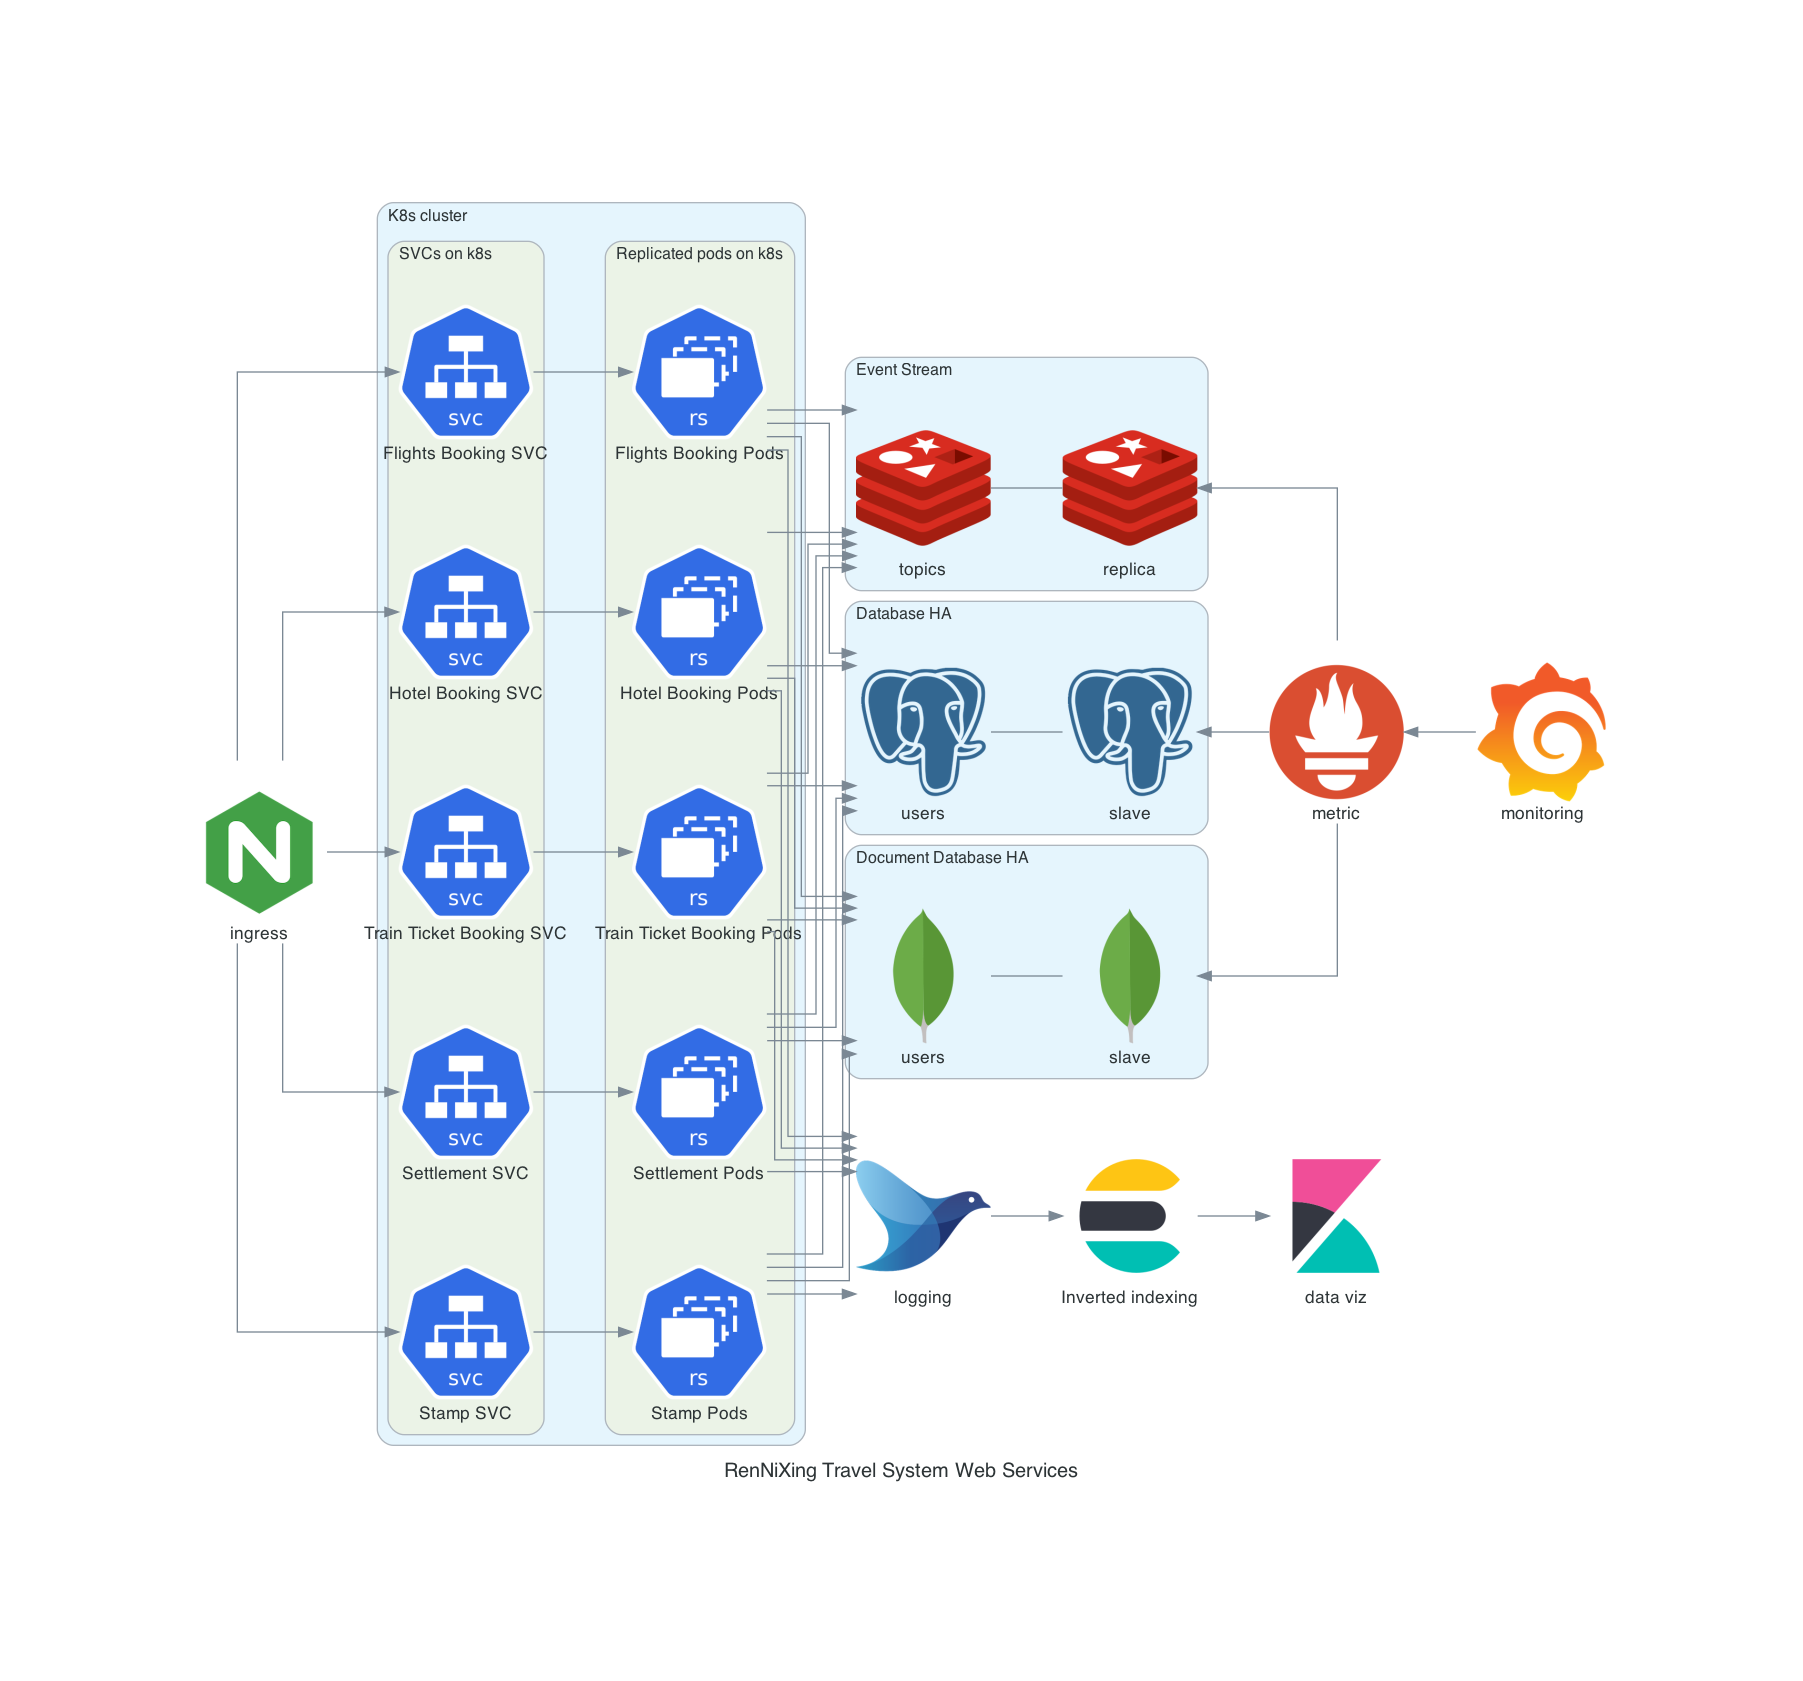
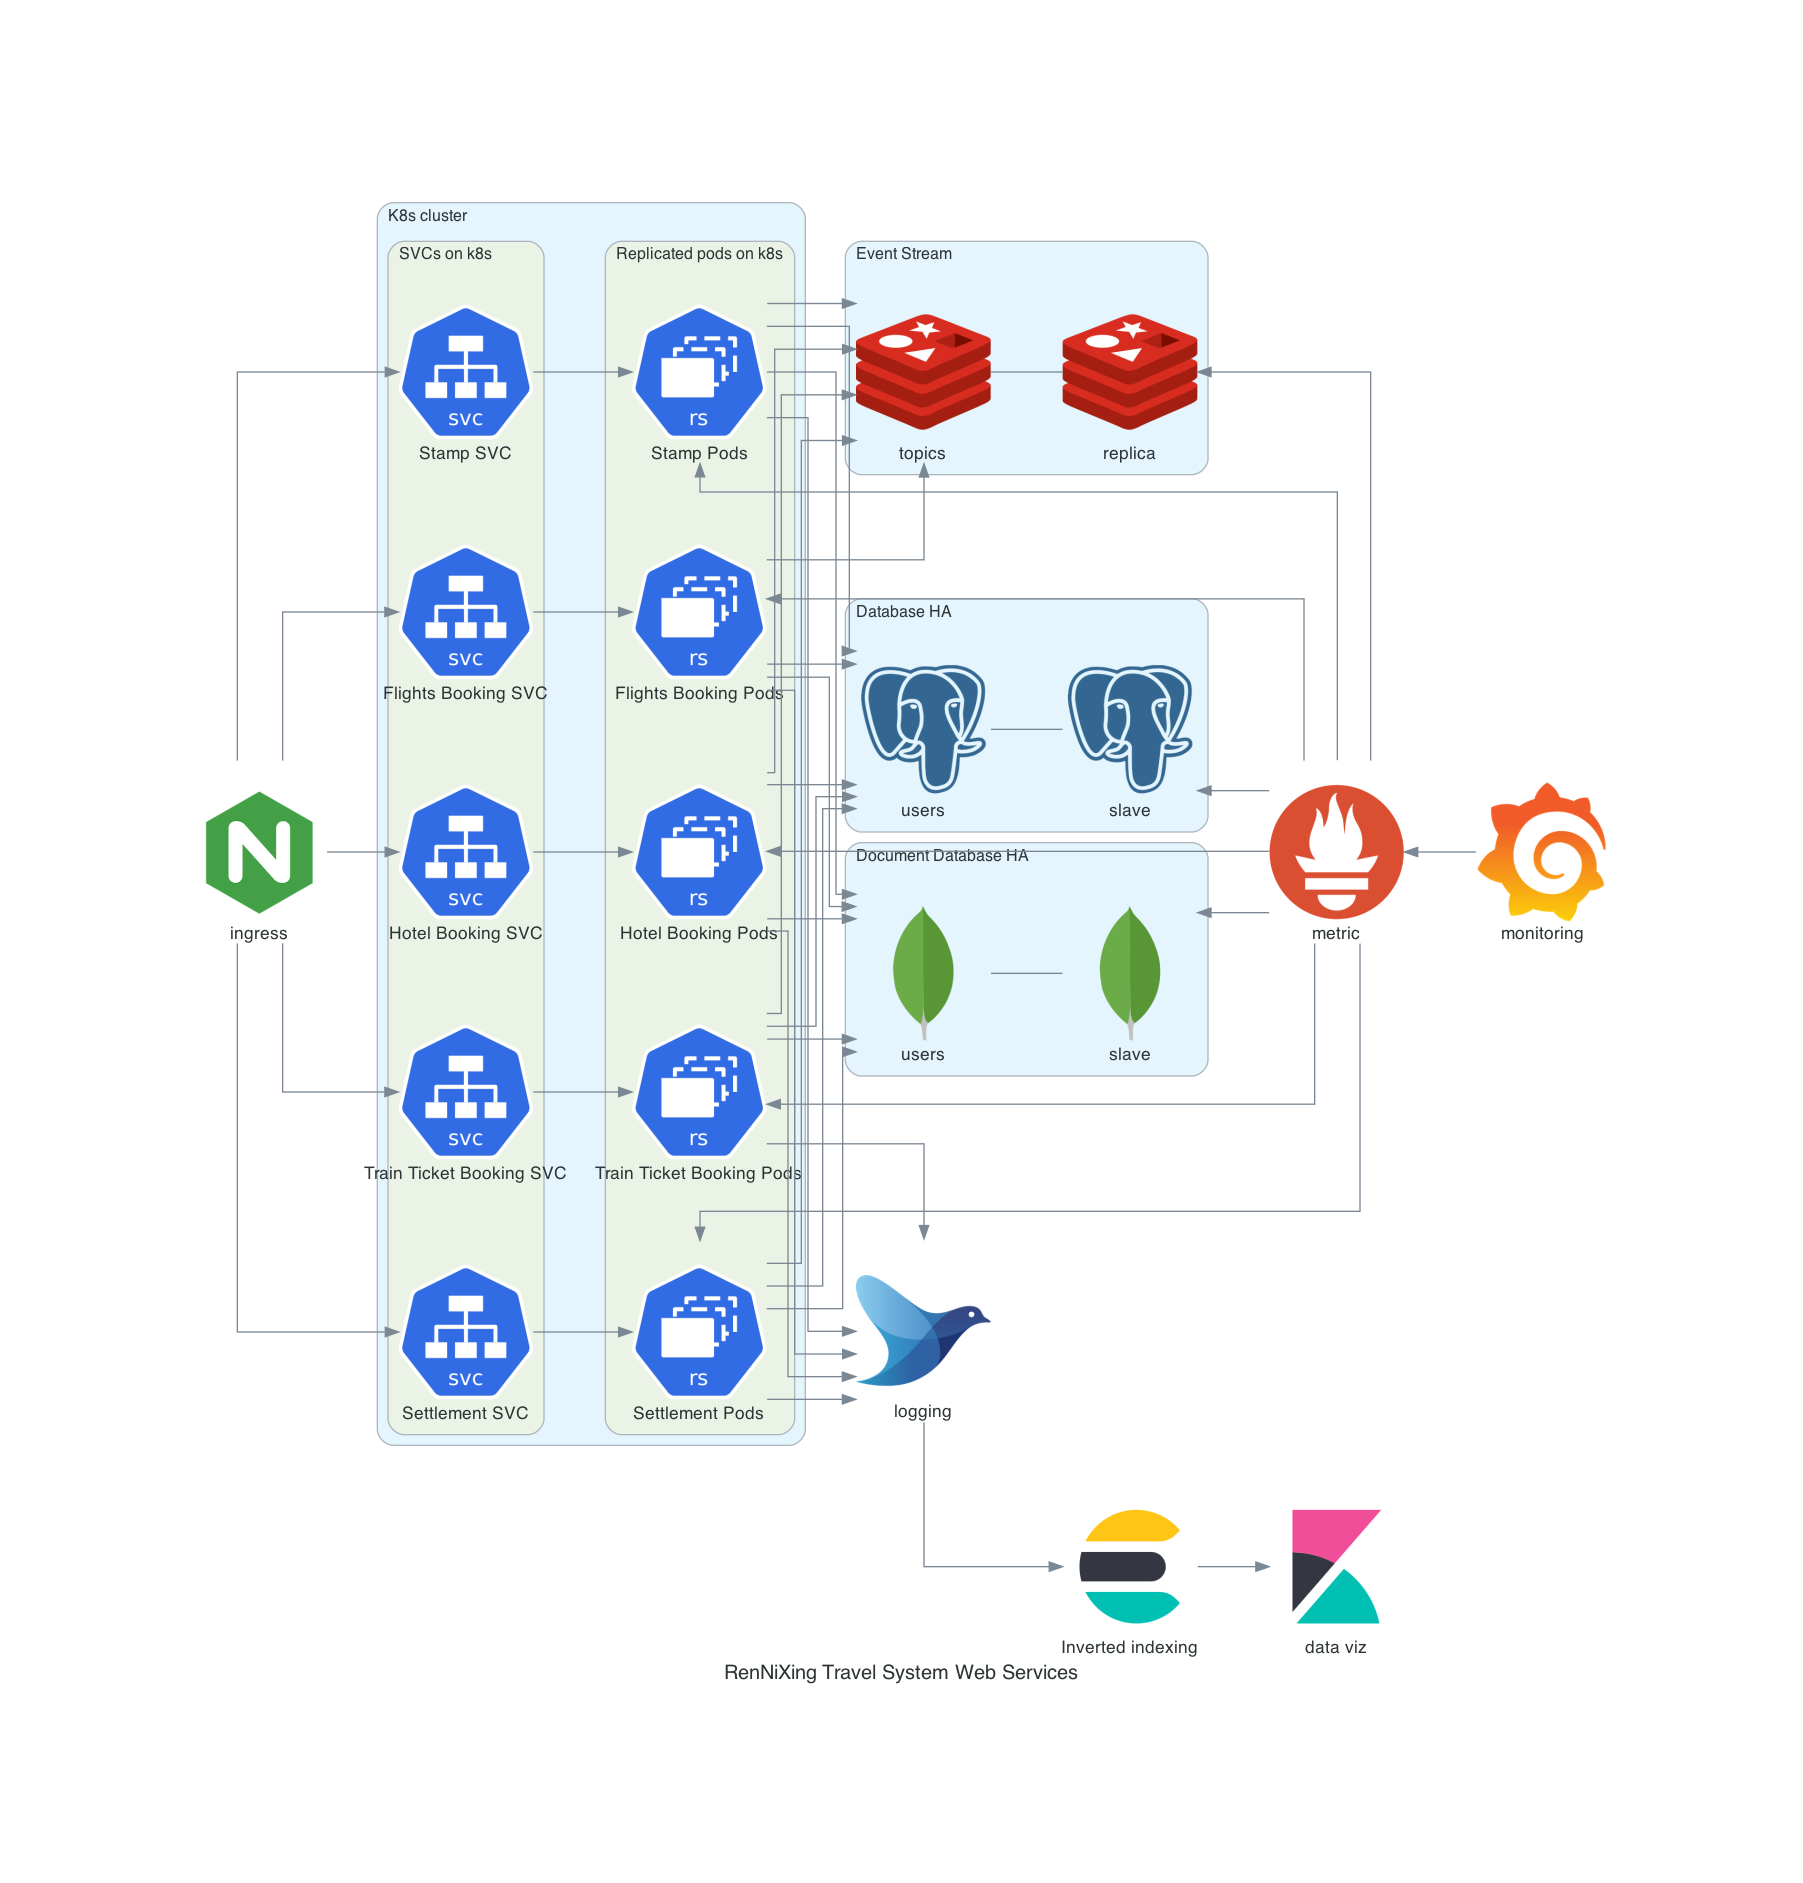
[Z.Z][Modeling] Refactoring the model that add cache part

diff --git a/travel/inter_diagram.py b/travel/inter_diagram.py
@@ -33,10 +33,16 @@ with Diagram("RenNiXing Travel System Web Services", show=False):
 
     for i in range(len(k8s_services)):
         k8s_services[i] >> replica_pods[i]
+        replica_pods[i] << metrics
 
     with Cluster("Event Stream"):
         master = Redis("topics")
         master - Redis("replica") << metrics
+        replica_pods >> master
+
+    with Cluster("HA Cache"):
+        master = Redis("Main Cache")
+        master - Redis("Replica Cache") << metrics
         replica_pods >> master
 
     with Cluster("Database HA"):
